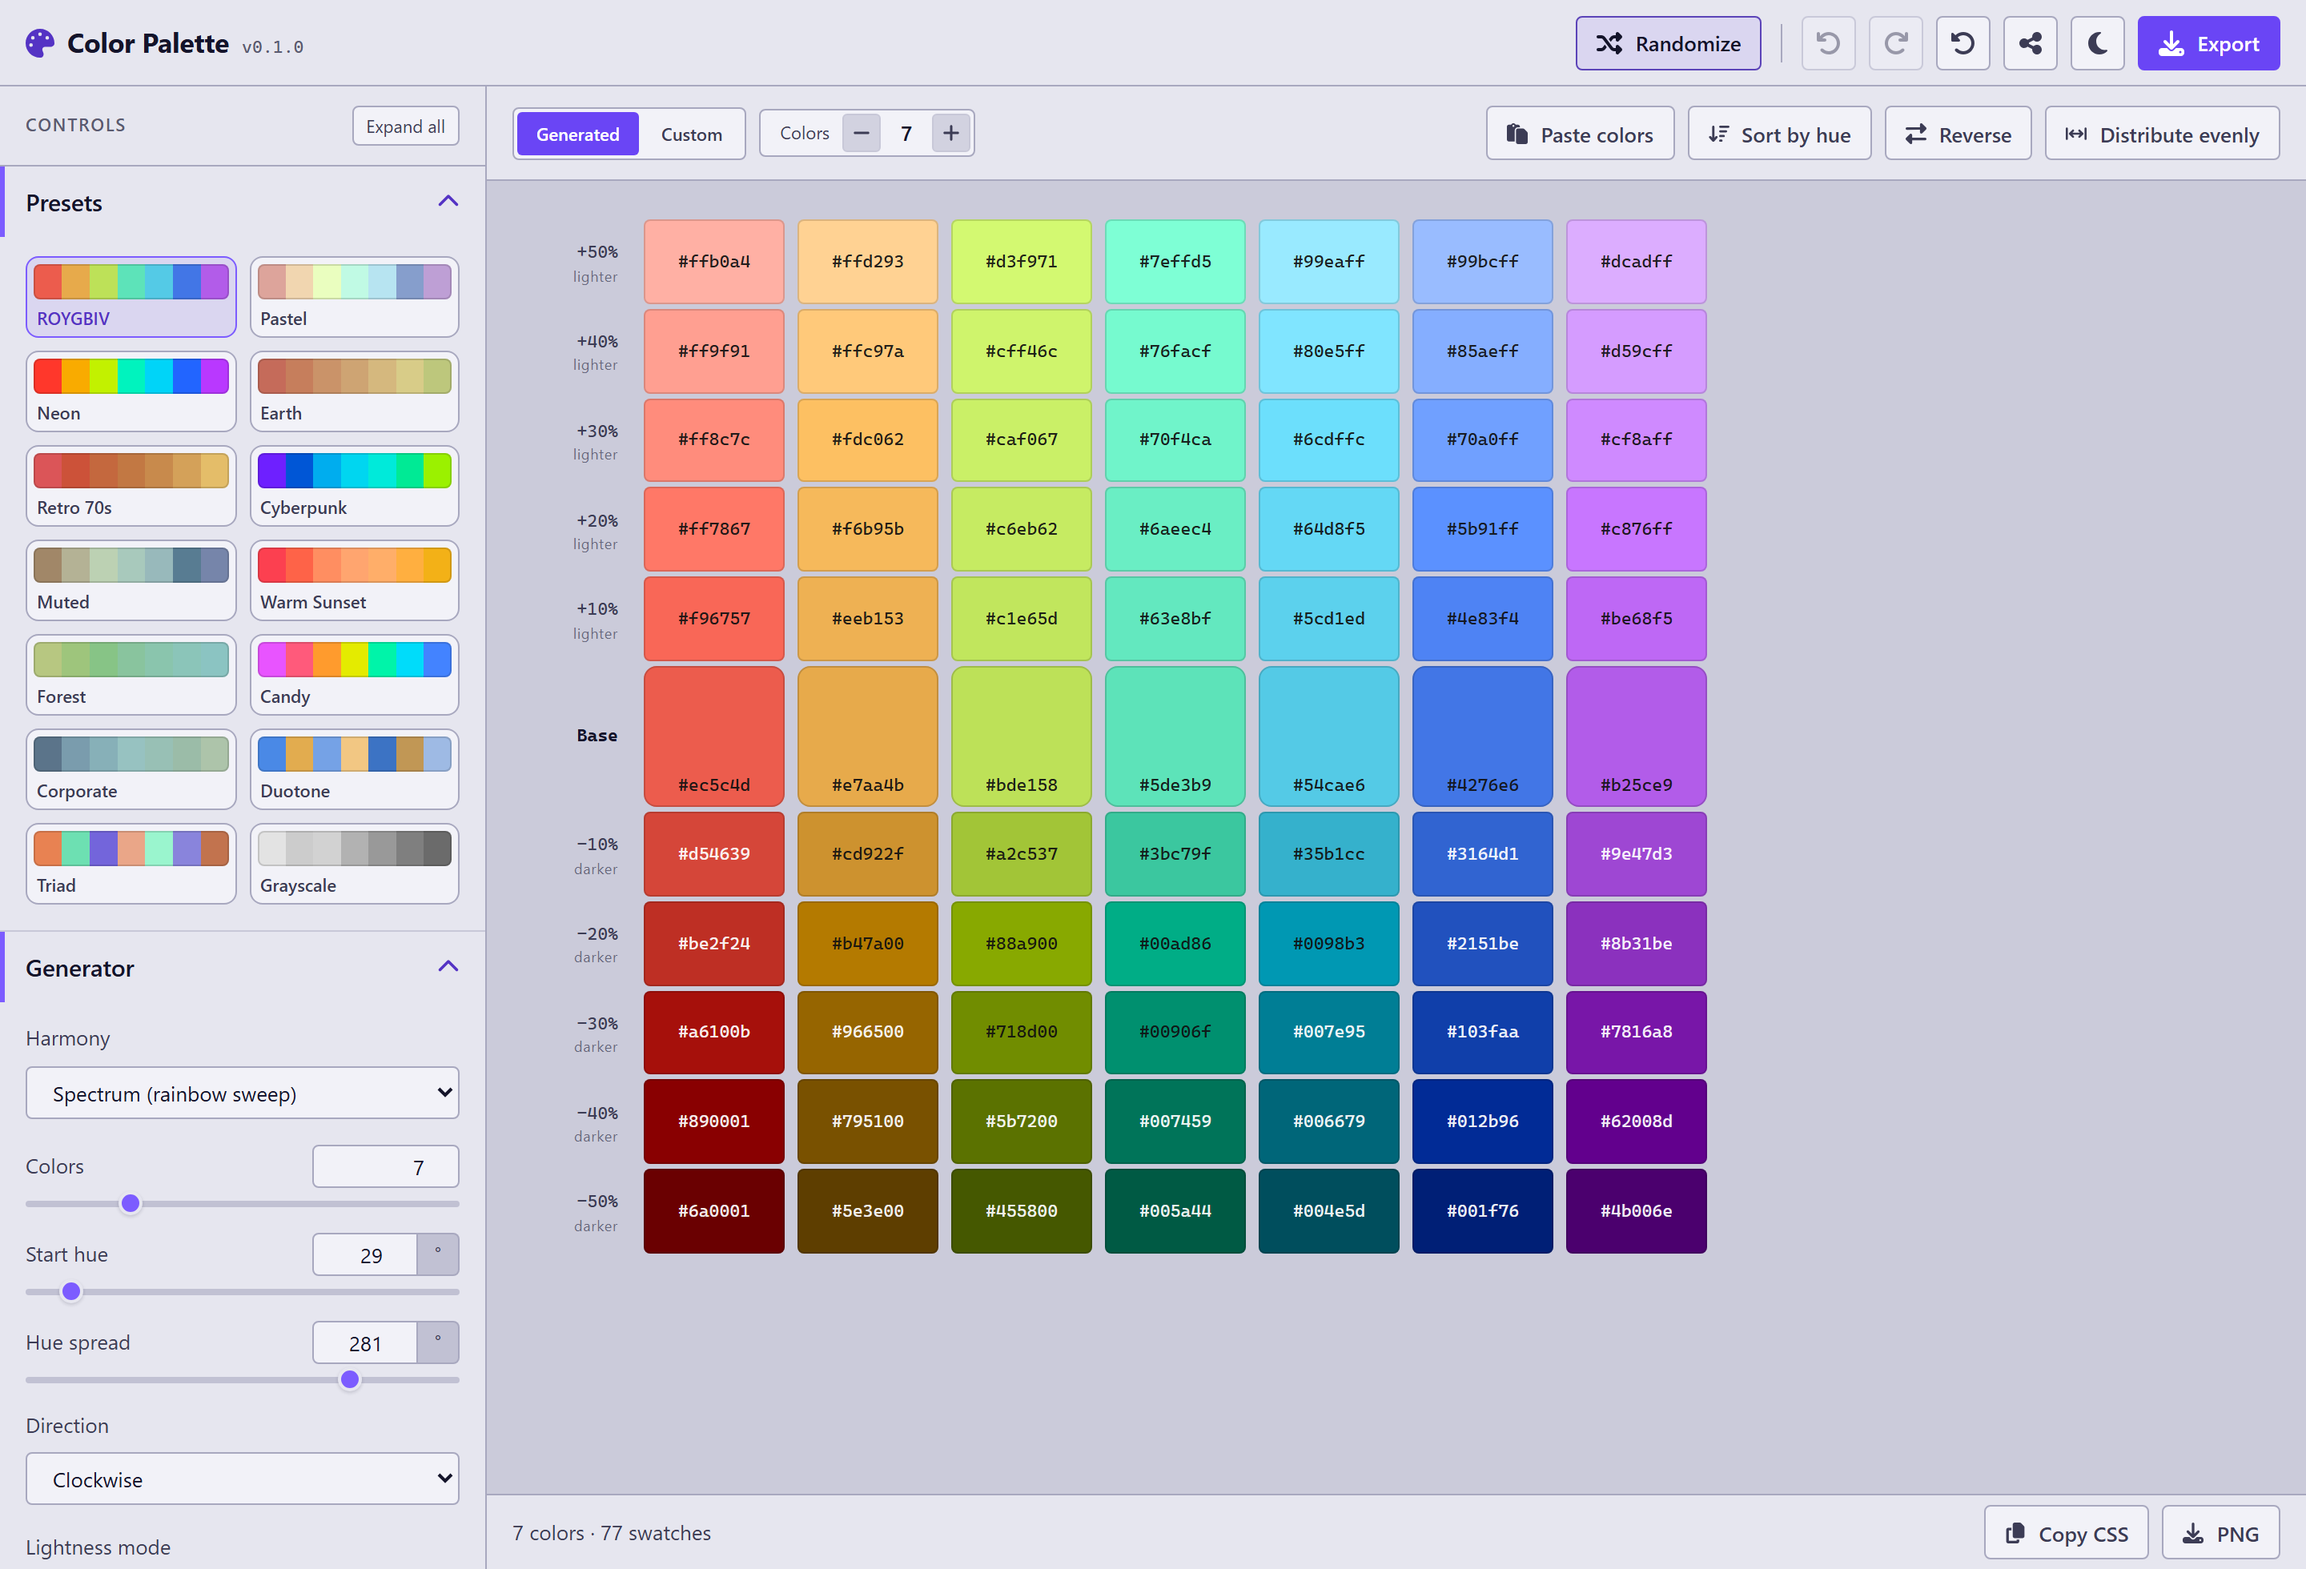
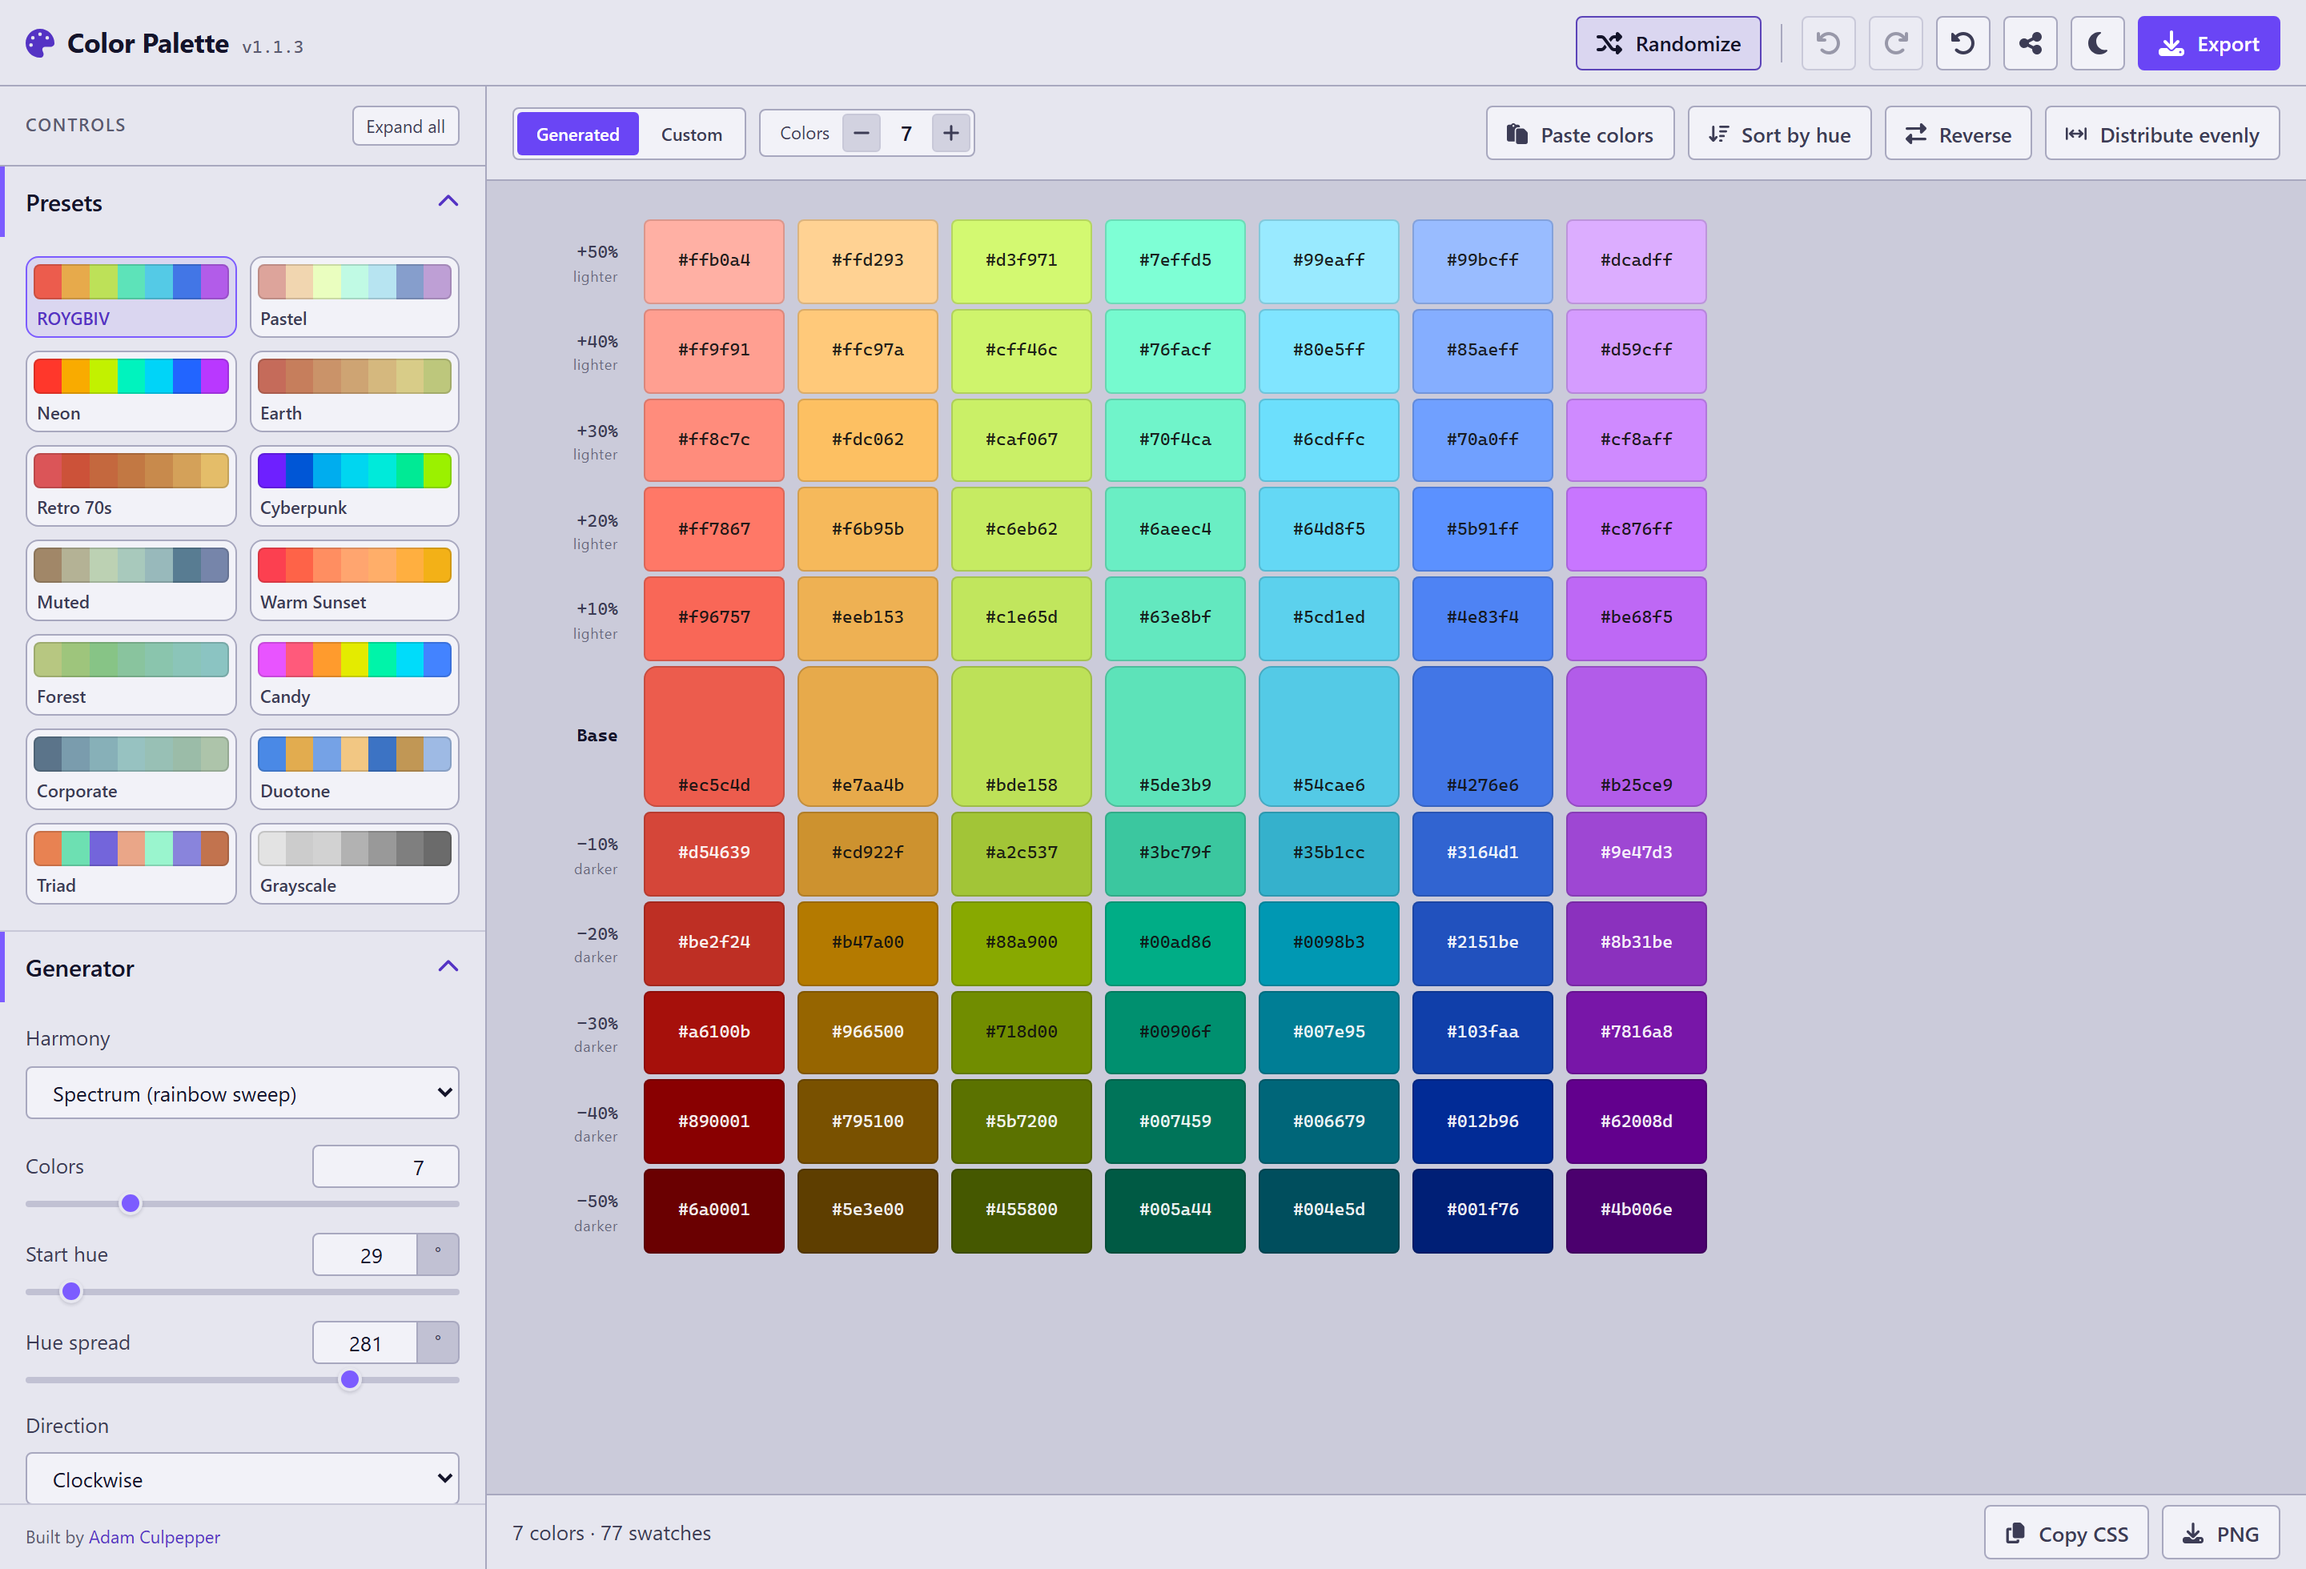
Lighter dark theme, sidebar credit, first-column hover fix (v1.1.3)

diff --git a/src/styles/themes.css b/src/styles/themes.css
@@ -7,27 +7,27 @@
    label sits on. --accent-text is a separate token from --accent for exactly
    that reason: the ring colour is not legible as body text at either end. */
 [data-theme="dark"] {
-  /* Backgrounds — a soft charcoal ramp, deliberately a notch up from black */
-  --bg-base: #17171f;
-  --bg-surface: #1f1f28;
-  --bg-elevated: #282833;
-  --bg-hover: #31313e;
-  --bg-active: #3c3c4b;
+  /* Backgrounds — a soft slate ramp, two deliberate notches up from black */
+  --bg-base: #20202a;
+  --bg-surface: #292934;
+  --bg-elevated: #33333f;
+  --bg-hover: #3d3d4b;
+  --bg-active: #484858;
 
   /* Borders */
-  --border-subtle: #31313d;
-  --border-default: #444453;
-  --border-strong: #626278;
+  --border-subtle: #3d3d4a;
+  --border-default: #515162;
+  --border-strong: #6f6f86;
 
   /* Text */
   --text-primary: #f2f2f7;
-  --text-secondary: #ababc2;
-  --text-tertiary: #9b9bb2;
-  --text-disabled: #5d5d68;
-  --text-inverse: #17171f;
+  --text-secondary: #bcbcd1;
+  --text-tertiary: #a8a8be;
+  --text-disabled: #67677a;
+  --text-inverse: #20202a;
 
   /* Accent as ink rather than as a surface */
-  --accent-text: #b1a1ff;
+  --accent-text: #c0b3ff;
 
   /* Status */
   --color-success: #4ade80;
@@ -35,11 +35,11 @@
   --color-error: #f87171;
 
   /* Stage backdrop the palette sits on */
-  --stage-bg: #1b1b24;
+  --stage-bg: #242430;
 
   /* Preview backgrounds (previewBackground param) */
-  --checker-base: #3a3a46;
-  --checker-square: #272731;
+  --checker-base: #464654;
+  --checker-square: #32323e;
 
   /* The ring that marks the base row. Light on dark grounds, and overridden per
      preview background where the ground flips. */
@@ -49,9 +49,9 @@
   --scrim: rgba(0, 0, 0, 0.62);
 
   /* Scrollbar */
-  --scrollbar-track: #1f1f28;
-  --scrollbar-thumb: #444453;
-  --scrollbar-thumb-hover: #626278;
+  --scrollbar-track: #292934;
+  --scrollbar-thumb: #515162;
+  --scrollbar-thumb-hover: #6f6f86;
 
   /* Shadows */
   --shadow-sm: 0 1px 3px rgba(0, 0, 0, 0.5);

diff --git a/src/components/Sidebar/Sidebar.css b/src/components/Sidebar/Sidebar.css
@@ -1,10 +1,36 @@
 .sidebar {
   grid-area: sidebar;
+  display: flex;
+  flex-direction: column;
   min-height: 0;
   overflow-y: auto;
   overscroll-behavior: contain;
   background: var(--bg-surface);
   border-right: 1px solid var(--border-default);
+
+  /* Sticky mirror of the toolbar: pinned to the panel's bottom edge, always in
+     view, with the sections scrolling beneath it. margin-top auto keeps it at
+     the bottom even when the sections do not fill the panel. */
+  .sidebar-credit {
+    position: sticky;
+    bottom: 0;
+    z-index: var(--z-sticky);
+    margin-top: auto;
+    padding: var(--space-3) var(--space-4);
+    font-size: var(--font-size-xs);
+    color: var(--text-tertiary);
+    background: var(--bg-surface);
+    border-top: 1px solid var(--border-subtle);
+
+    a {
+      color: var(--accent-text);
+      text-decoration: none;
+    }
+
+    a:hover {
+      text-decoration: underline;
+    }
+  }
 
   .sidebar-toolbar {
     position: sticky;

diff --git a/src/components/PaletteGrid/PaletteGrid.css b/src/components/PaletteGrid/PaletteGrid.css
@@ -64,7 +64,6 @@
 
   .step-cell:hover {
     transform: scale(1.04);
-    z-index: 1;
   }
 
   .step-cell:active {
@@ -279,6 +278,20 @@
     width: var(--step-size);
     height: var(--step-size);
     margin-inline: auto;
+  }
+
+  /* Hovered and focused cells rise above the sticky gutters, whose seam covers
+     otherwise shave the scaled edge or ring off the first column. A cell half
+     hidden by a pinned gutter pops fully visible while pointed at. Placed last
+     so it outranks the orientation blocks on source order. */
+  .step-cell:hover,
+  .step-cell:focus-visible {
+    z-index: calc(var(--z-sticky) + 3);
+  }
+
+  .swatch:hover,
+  .swatch:focus-within {
+    z-index: calc(var(--z-sticky) + 3);
   }
 }
 

diff --git a/src/components/Sidebar/Sidebar.jsx b/src/components/Sidebar/Sidebar.jsx
@@ -130,6 +130,13 @@ export default function Sidebar({ isDrawer = false, open = false, onClose }) {
           </ControlSection>
         )
       })}
+
+      <div className="sidebar-credit">
+        Built by{' '}
+        <a href="https://adamculpepper.net" target="_blank" rel="noopener noreferrer">
+          Adam Culpepper
+        </a>
+      </div>
     </aside>
   )
 

diff --git a/src/data/version.js b/src/data/version.js
@@ -2,4 +2,4 @@
 // npm run verify:exports fails when the three drift, so a release cannot
 // ship with a stale header.
 export const APP_NAME = 'Color Palette'
-export const VERSION = '1.1.2'
+export const VERSION = '1.1.3'

diff --git a/CHANGELOG.md b/CHANGELOG.md
@@ -2,6 +2,12 @@
 
 The number here, in `package.json`, and in `src/data/version.js` are the same number; `npm run verify:exports` fails when they drift. A fix bumps the patch, a feature bumps the minor, and the bump lands in the same change as the work. This log was reconstructed retroactively when the rule was adopted, so the early entries carry the versions they should have carried at the time.
 
+## [1.1.3] - 2026-08-18
+
+- Dark theme lightened another notch, from charcoal to a soft slate, with the text colors raised to hold 4.5:1 contrast on every surface.
+- "Built by Adam Culpepper" credit at the bottom of the control sidebar, linking to adamculpepper.net.
+- Hovered swatches in the first column no longer get their left edge shaved by the pinned step-label gutter; hovered cells now rise above the sticky chrome.
+
 ## [1.1.2] - 2026-08-17
 
 - Tooltips flip below their trigger when there is no room above, so the Randomize tooltip is no longer cut off at the top of the page.
